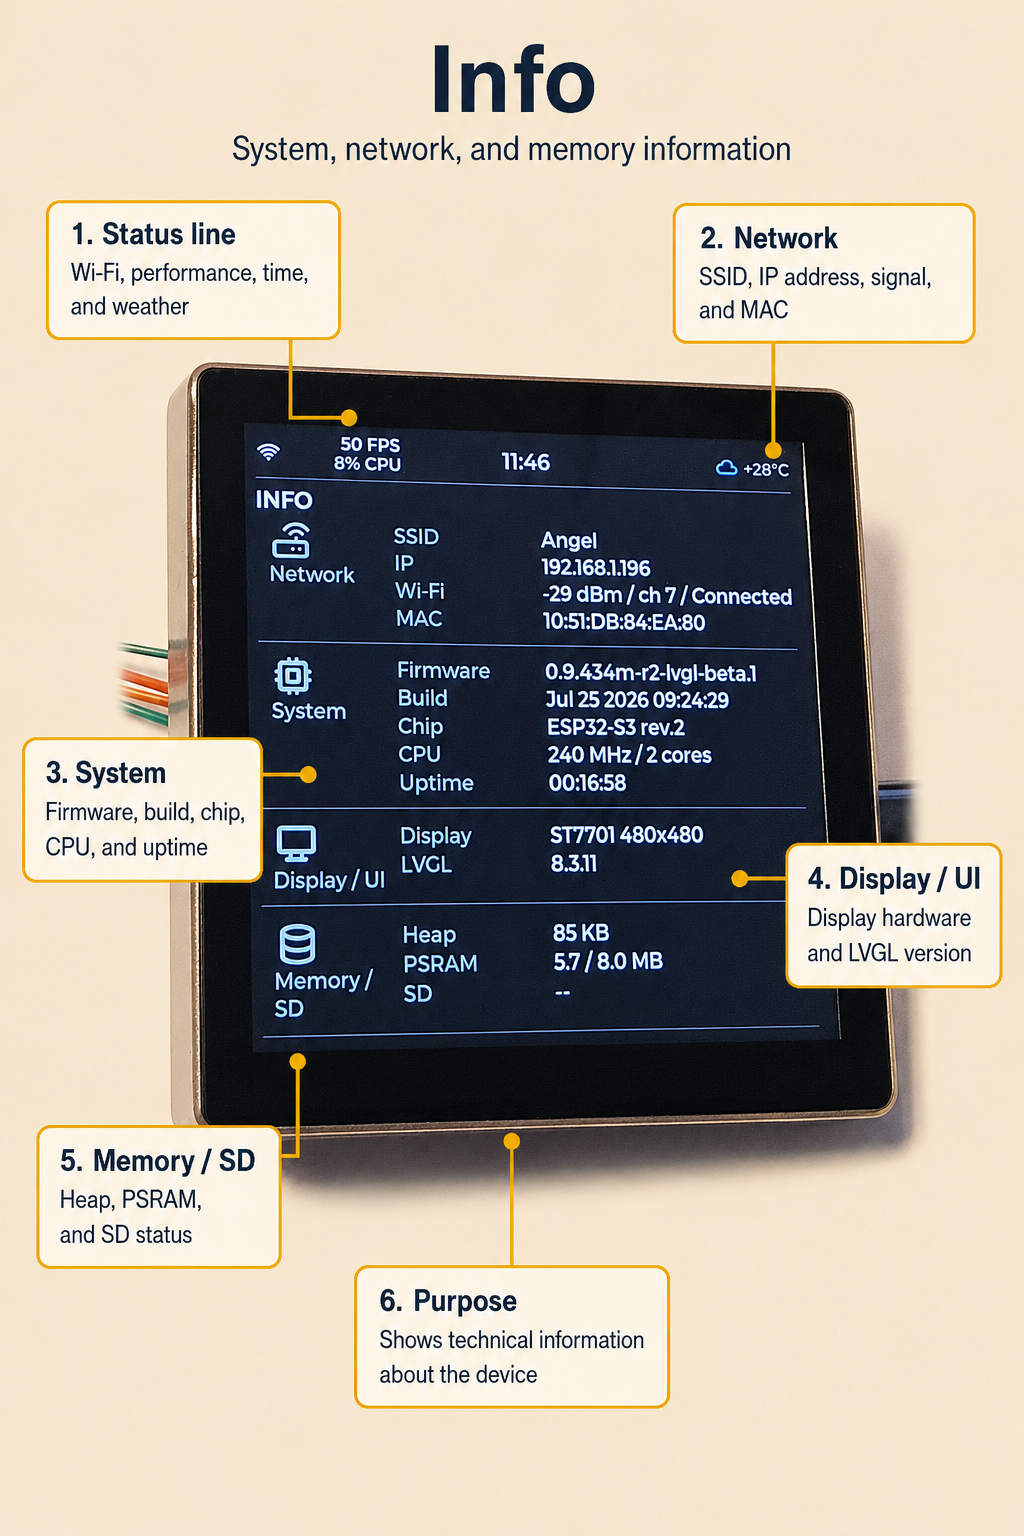
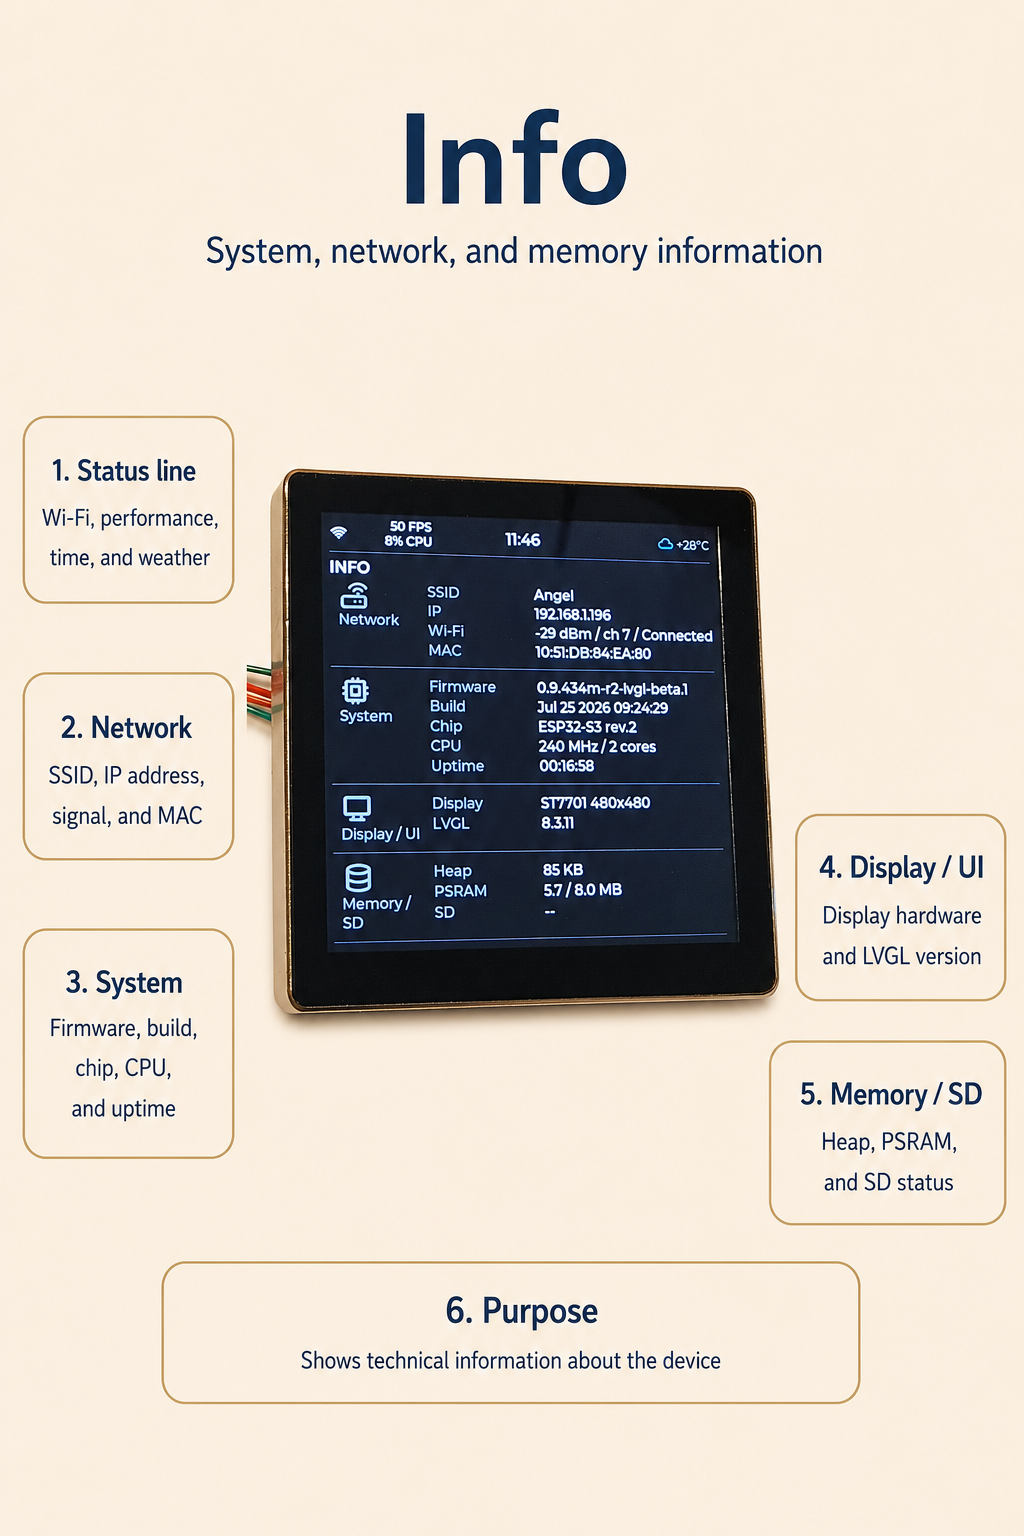
docs: refresh EN Info/Preset guides and drop lag notes

diff --git a/README_4848S040.md b/README_4848S040.md
@@ -1,4 +1,4 @@
-[Назад к README.md](README.md) — [English version](README_4848S040_english.md) *(документация на английском, может отставать от этого файла)*
+[Назад к README.md](README.md) — [English version](README_4848S040_english.md)
 
 # ESP32-4848S040 — подключение и прошивка YoRadio
 

diff --git a/README.md b/README.md
@@ -1,4 +1,4 @@
-[English version](readme_english.md) — *English documentation, may lag behind this file.*
+[English version](readme_english.md)
 
 # YoRadio LVGL
 
